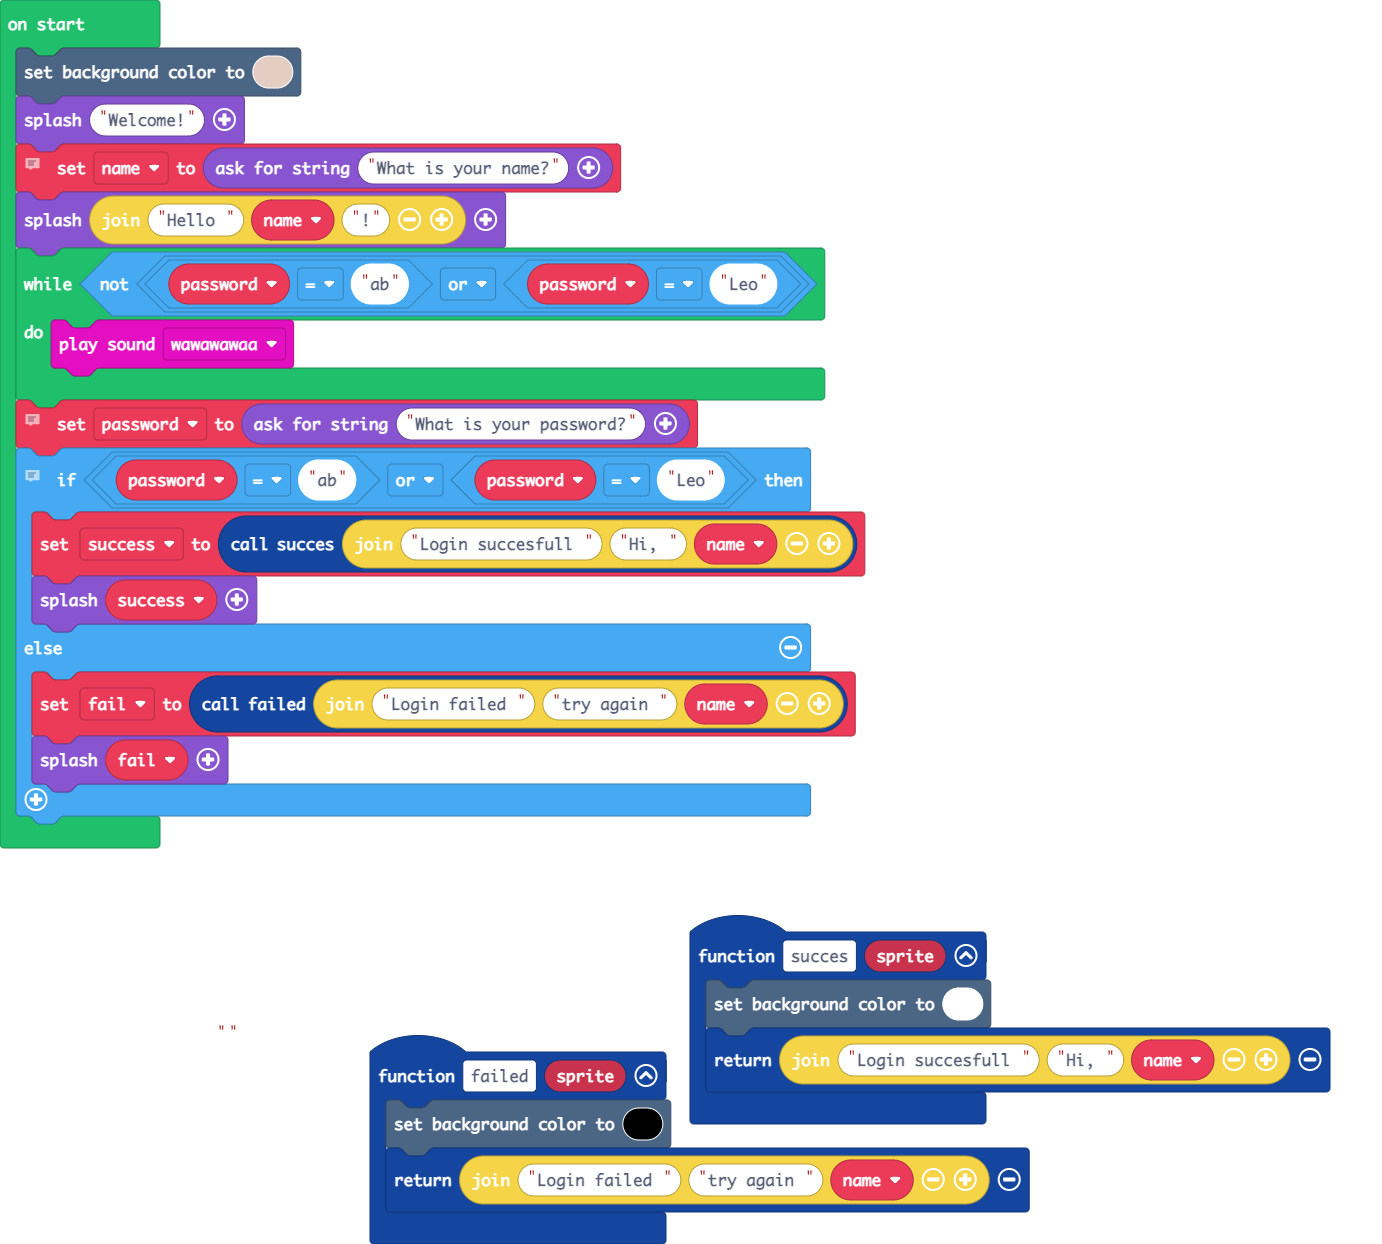
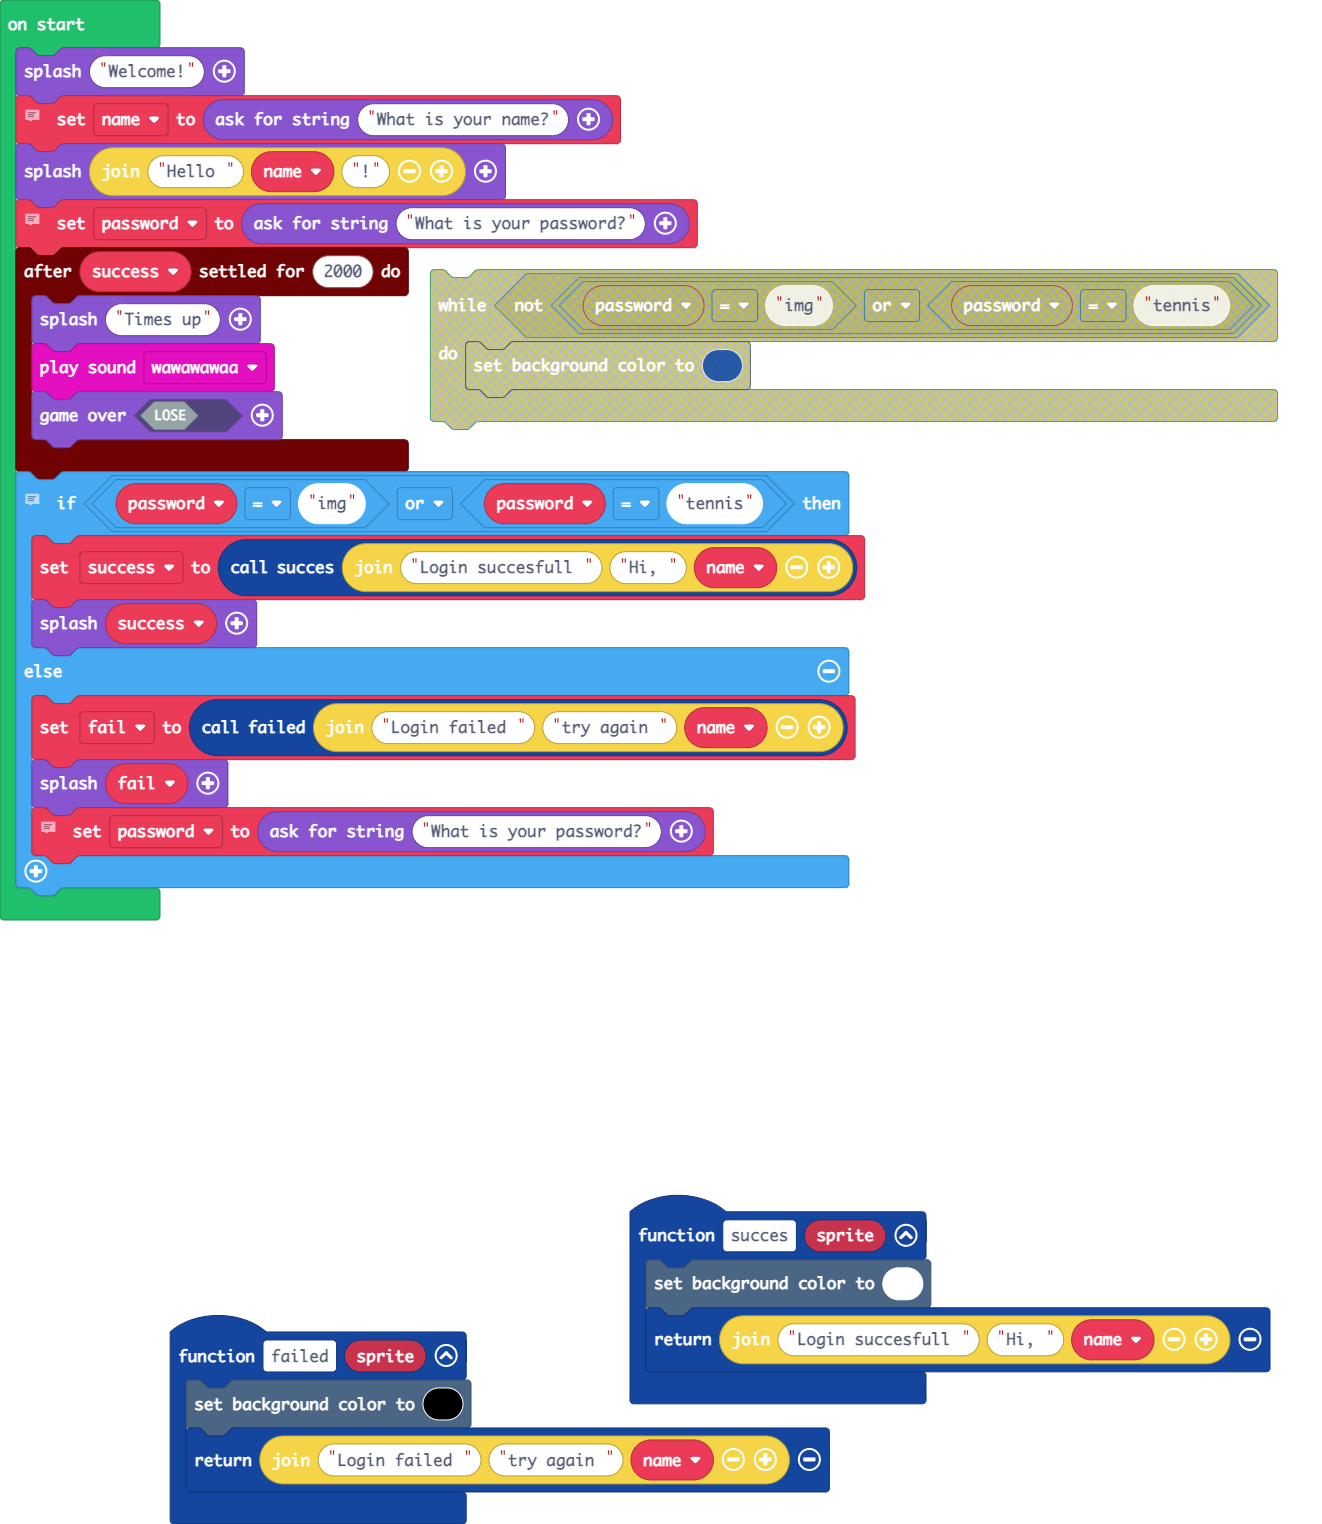
Update pxt.json, main.blocks, main.ts

diff --git a/main.ts b/main.ts
@@ -8,23 +8,25 @@ function failed (sprite: string) {
 }
 let fail = ""
 let success = ""
-let password = ""
 let name = ""
-scene.setBackgroundColor(13)
 game.splash("Welcome!")
 // asks what is your name
 name = game.askForString("What is your name?")
 game.splash("Hello " + name + "!")
-while (!(password == "ab" || password == "Leo")) {
-    music.wawawawaa.play()
-}
 // asks for what your password is
-password = game.askForString("What is your password?")
+let password = game.askForString("What is your password?")
+timer.debounce(success, 2000, function () {
+    game.splash("Times up")
+    music.wawawawaa.play()
+    game.over(false)
+})
 // input 1 and arcade equals together
-if (password == "ab" || password == "Leo") {
+if (password == "img" || password == "tennis") {
     success = succes("Login succesfull " + "Hi, " + name)
     game.splash(success)
 } else {
     fail = failed("Login failed " + "try again " + name)
     game.splash(fail)
+    // asks for what your password is
+    password = game.askForString("What is your password?")
 }
